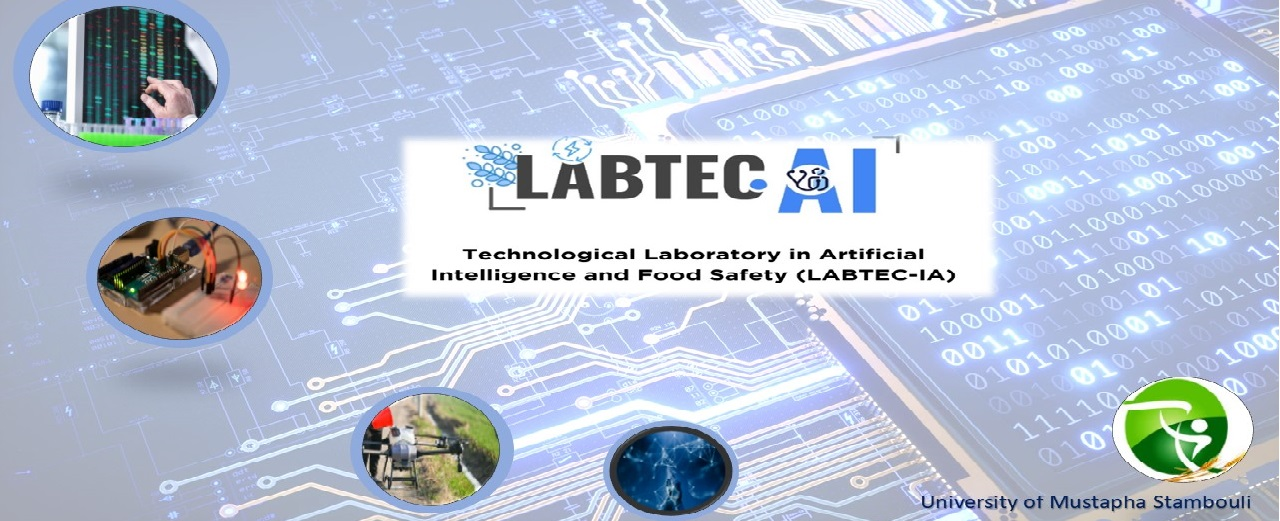
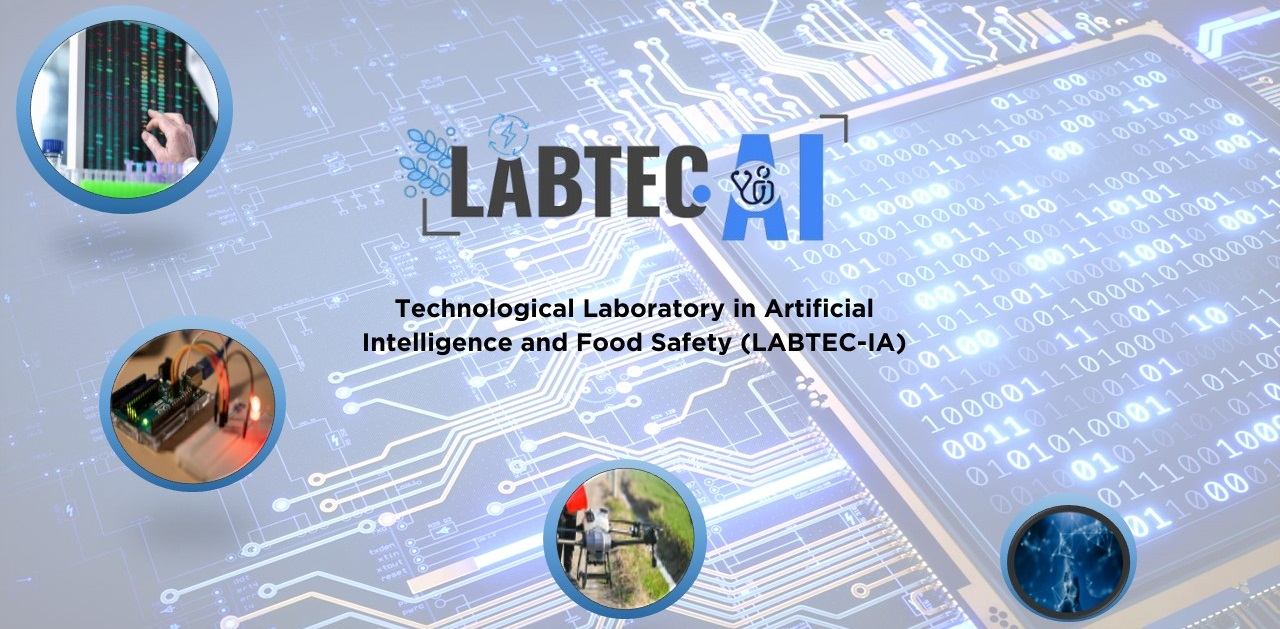
Add files via upload

diff --git a/index.html b/index.html
@@ -1,7 +1,7 @@
 <!DOCTYPE html>
 <html lang="en">
 <head>
-<title>W3.CSS Template</title>
+<title>LABTEC-IA</title>
 <meta charset="UTF-8">
 <meta name="viewport" content="width=device-width, initial-scale=1">
 <link rel="stylesheet" href="https://www.w3schools.com/w3css/4/w3.css">
@@ -10,13 +10,14 @@
 <style>
 body {font-family: "Lato", sans-serif}
 .mySlides {display: none}
+
 </style>
 </head>
-<body>
+<body class="bgteams">
 
 <!-- Navbar -->
 <div class="w3-top">
-  <div class="w3-bar w3-black w3-card">
+  <div class="w3-bar w3-blue w3-card">
     <a class="w3-bar-item w3-button w3-padding-large w3-hide-medium w3-hide-large w3-right" href="javascript:void(0)" onclick="myFunction()" title="Toggle Navigation Menu"><i class="fa fa-bars"></i></a>
     <a href="#" class="w3-bar-item w3-button w3-padding-large">HOME</a>
     <a href="#teams" class="w3-bar-item w3-button w3-padding-large w3-hide-small">TEAMS</a>
@@ -33,7 +34,7 @@ body {font-family: "Lato", sans-serif}
 </div>
 
 <!-- Navbar on small screens (remove the onclick attribute if you want the navbar to always show on top of the content when clicking on the links) -->
-<div id="navDemo" class="w3-bar-block w3-black w3-hide w3-hide-large w3-hide-medium w3-top" style="margin-top:46px">
+<div id="navDemo" class="w3-bar-block w3-blue w3-hide w3-hide-large w3-hide-medium w3-top" style="margin-top:46px">
   <a href="#teams" class="w3-bar-item w3-button w3-padding-large" onclick="myFunction()">TEAMS</a>
   <a href="#contact" class="w3-bar-item w3-button w3-padding-large" onclick="myFunction()">CONTACT</a>
 </div>
@@ -43,22 +44,22 @@ body {font-family: "Lato", sans-serif}
 
   <!-- Automatic Slideshow Images -->
   <div class="mySlides w3-display-container w3-center">
-    <img src="images/site_cover.jpg" style="width:100%" >
-    <div class="w3-display-topmiddle w3-container w3-text-blue w3-padding-32 w3-hide-small">
+    <img src="images/site_cover.jpg" style="width:100%; height:70%;" >
+    <div class="w3-display-topright w3-container w3-text-blue w3-padding-32 w3-hide-small">
       <h3>LABTEC-IA</h3>
       <p><b>Technological Laboratory in Artificial Intelligence and Food Safety</b></p>   
     </div>
   </div>
   <div class="mySlides w3-display-container w3-center">
     <img src="images/site_cover.jpg" style="width:100%" >
-    <div class="w3-display-topmiddle w3-container w3-text-blue w3-padding-32 w3-hide-small">
+    <div class="w3-display-topright w3-container w3-text-blue w3-padding-32 w3-hide-small">
       <h3>LABTEC-IA</h3>
       <p><b>Exacte Sciences Faculty</b></p>   
     </div>
   </div>
   <div class="mySlides w3-display-container w3-center">
     <img src="images/site_cover.jpg" style="width:100% " >
-    <div class="w3-display-topmiddle w3-container w3-text-blue w3-padding-32 w3-hide-small">
+    <div class="w3-display-topright w3-container w3-text-blue w3-padding-32 w3-hide-small">
       <h3>LABTEC-IA</h3>
       <p><b>University of Mustapha Stambouli, Mascara, Algeria</b></p>   
     </div>
@@ -72,19 +73,19 @@ body {font-family: "Lato", sans-serif}
     <div class="w3-row w3-padding-32">
       <div class="w3-third">
         <p>Team 1</p>
-        <img src="images/labtec-ia_logo.png" class="w3-round w3-margin-bottom" alt="Team 1" style="width:60%">
+        <img src="images/labtec-ia_logo.png" class="w3-circle w3-margin-bottom" alt="Team 1" style="width:60%">
       </div>
       <div class="w3-third">
         <p>Team 2</p>
-        <img src="images/labtec-ia_logo.png" class="w3-round w3-margin-bottom" alt="Team 1" style="width:60%">
+        <img src="images/labtec-ia_logo.png" class="w3-circle w3-margin-bottom" alt="Team 1" style="width:60%">
       </div>
       <div class="w3-third">
         <p>Team 3</p>
-        <img src="images/labtec-ia_logo.png" class="w3-round" alt="Team 1" style="width:60%">
+        <img src="images/labtec-ia_logo.png" class="w3-circle w3-margin-bottom" alt="Team 1" style="width:60%">
       </div>
 	  <div class="w3-third">
         <p>Team 4</p>
-        <img src="images/labtec-ia_logo.png" class="w3-round" alt="Team 1" style="width:60%">
+        <img src="images/labtec-ia_logo.png" class="w3-circle w3-margin-bottom" alt="Team 1" style="width:60%">
       </div>
     </div>
   </div>
